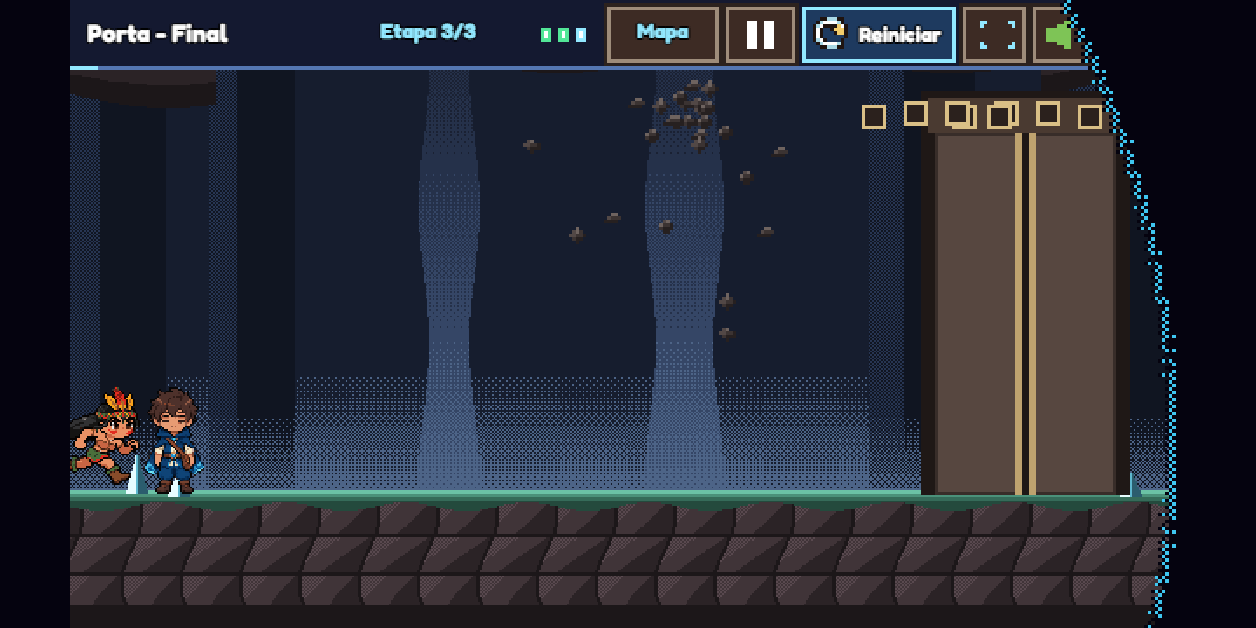
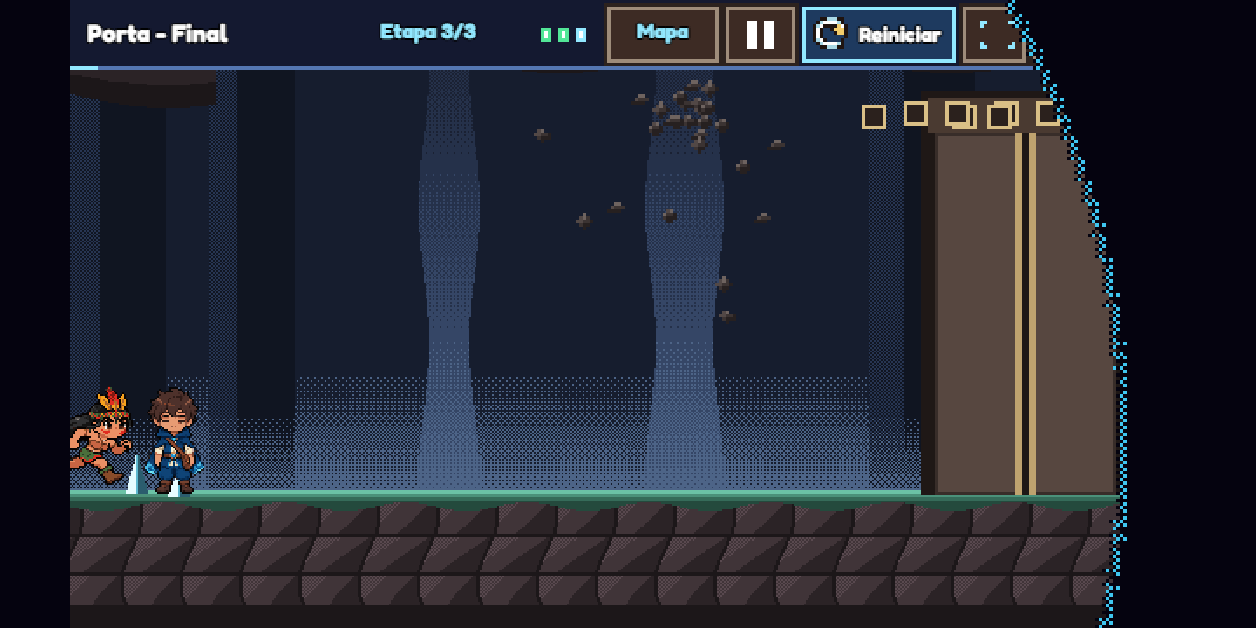
feat(ui,sprites): corrige modais de selecao de fase e redesenha bichinhos de pedra da Caverna
- Remove borda azul, fundo escuro opaco e frase de fase inedita nos modais de selecao de fase
- Limpa botoes ilustrados em paineis-mundos.png e estiliza Botoes Comecar/Voltar por mundo
- Restringe bichinhos de pedra musicais exclusivamente a Caverna e redesenha sprite caricato e expressivo
- Adiciona testes automatizados e atualiza artefatos de playtest E2E

diff --git a/js/true-pixel-engine.js b/js/true-pixel-engine.js
@@ -5612,11 +5612,13 @@
 
   // ============================================================================
   // ANIMAIS DE PEDRA COM MUSGO E CRISTAIS LUMINOSOS — HI-BIT 38x36 PIXELS (ESTILO OWLBOY)
-  // Criaturas rochosas esculpidas em tons terrosos (#262020, #3b3332, #524846, #6e635f)
-  // com musgo vivo (#367030, #539e43, #7ec456) e veios cristalinos suaves.
   // ============================================================================
-  function buildHiBitStoneAnimal(neonHi, neonMid, isSing = false) {
-    const W = 38, H = 36;
+  // BICHINHOS DE PEDRA MUSICAIS (EXCLUSIVOS DA CAVERNA)
+  // Criaturas de pedra arredondadas, expressivas e fofas/caricatas com coroinha
+  // de cristais cintilantes, bochechinhas coradas, olhões kawaii e boquinha em "O".
+  // ============================================================================
+  function buildHiBitStoneAnimal(neonHi, neonMid, isSing = false, frame = 0, cheekCol = '#ff9eb5') {
+    const W = 40, H = 38;
     const [c, x] = mk(W, H);
     c.hib = true;
     const put = (px, py, col) => {
@@ -5639,60 +5641,186 @@
       }
     };
 
-    const ROCK_0 = '#262020', ROCK_1 = '#3b3332', ROCK_2 = '#524846', ROCK_3 = '#6e635f';
-    const MOSS_0 = '#367030', MOSS_1 = '#539e43', MOSS_2 = '#7ec456';
+    const ROCK_0 = '#221c1c'; // contorno
+    const ROCK_1 = '#382e2c'; // sombra
+    const ROCK_2 = '#544745'; // tom médio
+    const ROCK_3 = '#726360'; // brilho
+    const ROCK_4 = '#8f807c'; // luz superior
+    const MOSS_0 = '#2f5e27';
+    const MOSS_1 = '#4e943c';
+    const MOSS_2 = '#79bd54';
 
-    // Cristais nas costas do guardião de pedra
-    for (const [cx, cy, h] of [[13, 9, 8], [19, 7, 10], [25, 10, 7]]) {
+    const squashY = (isSing && frame === 1) ? -1 : 0;
+    const centerY = 23 + squashY;
+
+    // 1. Cristais cintilantes no topo da cabeça
+    const crystals = [
+      [13, 10 + squashY, 7, -1],
+      [20, 7 + squashY, 9, 0],
+      [27, 10 + squashY, 7, 1]
+    ];
+    for (const [cx, cy, h, lean] of crystals) {
       for (let py = cy - h; py <= cy; py++) {
-        const w = Math.max(1, Math.round((1 - (cy - py) / h) * 3));
-        for (let px = cx - w; px <= cx + w; px++) {
-          put(px, py, px < cx ? '#ffffff' : (px === cx ? neonHi : neonMid));
+        const progress = (cy - py) / h;
+        const w = Math.max(1, Math.round((1 - progress) * 2.8));
+        const lx = Math.round(lean * (1 - progress));
+        for (let px = cx - w + lx; px <= cx + w + lx; px++) {
+          let col = neonMid;
+          if (px < cx) col = (py === cy - h) ? '#ffffff' : neonHi;
+          else if (px === cx) col = (py <= cy - h + 1 || (frame === 1 && ((px + py) & 1) === 0)) ? '#ffffff' : neonHi;
+          put(px, py, col);
         }
       }
     }
 
-    // Corpo rochoso esculpido (guardião coruja/golem de pedra estilo Owlboy)
-    fillEll(19, 22, 13, 10, (px, py, dx, dy, d) => {
-      if (d > 0.85) return ROCK_0;
-      if (dy < -0.55) {
-        return ((px + py) & 1) === 0 ? MOSS_2 : (dy < -0.7 ? MOSS_1 : MOSS_0);
-      }
-      if (dx + dy < -0.2) return ROCK_3;
+    // 2. Corpinho arredondado gordinho e fofo (batatinha de pedra alegre)
+    const bodyRx = 13.5;
+    const bodyRy = 10.5 + ((isSing && frame === 0) ? 0.5 : (isSing && frame === 1) ? -0.5 : 0);
+    fillEll(20, centerY, bodyRx, bodyRy, (px, py, dx, dy, d) => {
+      if (d > 0.82) return ROCK_0;
+      if (dy < -0.58 && dx < 0.2) return ((px + py) & 1) === 0 ? MOSS_2 : MOSS_1;
+      if (dy < -0.48 && dx < 0.25 && d > 0.6) return MOSS_0;
+      if (dy < -0.4 && dx > -0.3 && dx < 0.3) return ROCK_4;
+      if (dx + dy < -0.15) return ROCK_3;
       if (dx + dy > 0.35) return ROCK_1;
       return ROCK_2;
     });
 
-    // Patas de pedra na base
-    fillEll(13, 32, 4, 3, (px, py, dx, dy) => dy < 0 ? ROCK_2 : ROCK_0);
-    fillEll(25, 32, 4, 3, (px, py, dx, dy) => dy < 0 ? ROCK_2 : ROCK_0);
+    // 3. Patinhas curtas redondinhas de pedra na base
+    const footY = 33 + squashY;
+    fillEll(14, footY, 3.8, 2.8, (px, py, dx, dy, d) => d > 0.75 ? ROCK_0 : dy < -0.2 ? ROCK_3 : ROCK_1);
+    fillEll(26, footY, 3.8, 2.8, (px, py, dx, dy, d) => d > 0.75 ? ROCK_0 : dy < -0.2 ? ROCK_3 : ROCK_1);
 
-    // Olhos minerais luminosos e boca cantando
-    for (const ox of [15, 23]) {
-      put(ox, 19, neonHi);
-      put(ox + 1, 19, '#ffffff');
-      put(ox, 20, neonMid);
-      put(ox + 1, 20, neonHi);
+    // 4. Bochechinhas coradas fofas (rosadas/iluminadas)
+    const cheekY = centerY + 1;
+    put(13, cheekY, cheekCol);
+    put(14, cheekY, cheekCol);
+    put(13, cheekY + 1, cheekCol);
+    put(14, cheekY + 1, cheekCol);
+    put(25, cheekY, cheekCol);
+    put(26, cheekY, cheekCol);
+    put(25, cheekY + 1, cheekCol);
+    put(26, cheekY + 1, cheekCol);
+
+    // 5. Olhos grandes expressivos e caricatos
+    const eyeY = centerY - 2;
+    if (isSing && frame === 1) {
+      // Olhos fechados em arco de felicidade ao cantar nota aguda (^ ^)
+      put(14, eyeY, ROCK_0);
+      put(15, eyeY - 1, ROCK_0);
+      put(16, eyeY - 1, ROCK_0);
+      put(17, eyeY, ROCK_0);
+      put(22, eyeY, ROCK_0);
+      put(23, eyeY - 1, ROCK_0);
+      put(24, eyeY - 1, ROCK_0);
+      put(25, eyeY, ROCK_0);
+    } else {
+      // Olhões grandes brilhantes "kawaii" com brilho duplo
+      for (const ox of [15, 23]) {
+        put(ox - 1, eyeY - 2, ROCK_0);
+        put(ox, eyeY - 2, ROCK_0);
+        put(ox + 1, eyeY - 2, ROCK_0);
+        put(ox + 2, eyeY - 2, ROCK_0);
+
+        put(ox - 1, eyeY - 1, ROCK_0);
+        put(ox, eyeY - 1, '#ffffff'); // Brilho principal
+        put(ox + 1, eyeY - 1, '#ffffff');
+        put(ox + 2, eyeY - 1, ROCK_0);
+
+        put(ox - 1, eyeY, ROCK_0);
+        put(ox, eyeY, neonMid);      // Íris
+        put(ox + 1, eyeY, neonHi);   // Brilho da íris
+        put(ox + 2, eyeY, ROCK_0);
+
+        put(ox - 1, eyeY + 1, ROCK_0);
+        put(ox, eyeY + 1, ROCK_0);
+        put(ox + 1, eyeY + 1, '#ffffff'); // Brilho secundário
+        put(ox + 2, eyeY + 1, ROCK_0);
+
+        put(ox, eyeY + 2, ROCK_0);
+        put(ox + 1, eyeY + 2, ROCK_0);
+      }
     }
+
+    // 6. Boquinha expressiva e cômica
+    const mouthY = centerY + 2;
     if (isSing) {
-      for (let py = 23; py <= 26; py++) {
-        for (let px = 17; px <= 21; px++) {
-          put(px, py, py === 23 ? '#ffffff' : neonHi);
-        }
+      if (frame === 0) {
+        // Boquinha em 'O' redondinha clássica
+        put(18, mouthY - 1, ROCK_0);
+        put(19, mouthY - 1, ROCK_0);
+        put(20, mouthY - 1, ROCK_0);
+        put(21, mouthY - 1, ROCK_0);
+
+        put(17, mouthY, ROCK_0);
+        put(18, mouthY, '#831843');
+        put(19, mouthY, '#ec4899'); // linguinha fofa
+        put(20, mouthY, '#831843');
+        put(21, mouthY, ROCK_0);
+
+        put(17, mouthY + 1, ROCK_0);
+        put(18, mouthY + 1, '#831843');
+        put(19, mouthY + 1, '#831843');
+        put(20, mouthY + 1, '#831843');
+        put(21, mouthY + 1, ROCK_0);
+
+        put(18, mouthY + 2, ROCK_0);
+        put(19, mouthY + 2, ROCK_0);
+        put(20, mouthY + 2, ROCK_0);
+        put(21, mouthY + 2, ROCK_0);
+      } else {
+        // Boquinha em 'O' mais aberta, vibrando
+        put(18, mouthY - 1, ROCK_0);
+        put(19, mouthY - 1, ROCK_0);
+        put(20, mouthY - 1, ROCK_0);
+        put(21, mouthY - 1, ROCK_0);
+
+        put(17, mouthY, ROCK_0);
+        put(18, mouthY, '#9d174d');
+        put(19, mouthY, '#f472b6');
+        put(20, mouthY, '#f472b6');
+        put(21, mouthY, '#9d174d');
+        put(22, mouthY, ROCK_0);
+
+        put(17, mouthY + 1, ROCK_0);
+        put(18, mouthY + 1, '#500724');
+        put(19, mouthY + 1, '#f472b6');
+        put(20, mouthY + 1, '#f472b6');
+        put(21, mouthY + 1, '#500724');
+        put(22, mouthY + 1, ROCK_0);
+
+        put(17, mouthY + 2, ROCK_0);
+        put(18, mouthY + 2, '#500724');
+        put(19, mouthY + 2, '#500724');
+        put(20, mouthY + 2, '#500724');
+        put(21, mouthY + 2, '#500724');
+        put(22, mouthY + 2, ROCK_0);
+
+        put(18, mouthY + 3, ROCK_0);
+        put(19, mouthY + 3, ROCK_0);
+        put(20, mouthY + 3, ROCK_0);
+        put(21, mouthY + 3, ROCK_0);
       }
     } else {
-      for (let px = 17; px <= 21; px++) put(px, 24, ROCK_0);
+      // Boquinha sorridente fofa no estado idle (sorrisinho :3)
+      put(17, mouthY, ROCK_0);
+      put(18, mouthY + 1, ROCK_0);
+      put(19, mouthY, ROCK_0);
+      put(20, mouthY + 1, ROCK_0);
+      put(21, mouthY, ROCK_0);
     }
 
     return c;
   }
 
-  function makeStoneNeonAnimal(neonHi, neonMid) {
-    const idle0 = buildHiBitStoneAnimal(neonHi, neonMid, false);
-    const sing0 = buildHiBitStoneAnimal(neonHi, neonMid, true);
+  function makeStoneNeonAnimal(neonHi, neonMid, cheekCol = '#ff9eb5') {
+    const idle0 = buildHiBitStoneAnimal(neonHi, neonMid, false, 0, cheekCol);
+    const idle1 = buildHiBitStoneAnimal(neonHi, neonMid, false, 1, cheekCol);
+    const sing0 = buildHiBitStoneAnimal(neonHi, neonMid, true, 0, cheekCol);
+    const sing1 = buildHiBitStoneAnimal(neonHi, neonMid, true, 1, cheekCol);
     return {
-      idle: [idle0],
-      sing: [sing0, idle0]
+      idle: [idle0, idle0, idle1, idle0],
+      sing: [sing0, sing1, sing0, sing1]
     };
   }
 
@@ -5829,9 +5957,9 @@
     irece: makeGuardianActor(GUARDIAN_SPRITE_SPECS.irece),
     jurema: makeGuardianActor(GUARDIAN_SPRITE_SPECS.jurema),
     stoneNeonAnimals: {
-      cyan: makeStoneNeonAnimal('#a8e6cf', '#56ab91'),
-      magenta: makeStoneNeonAnimal('#f2b8c6', '#bd6b82'),
-      gold: makeStoneNeonAnimal('#f5df98', '#c49b45')
+      cyan: makeStoneNeonAnimal('#67e8f9', '#0891b2', '#f472b6'),
+      magenta: makeStoneNeonAnimal('#f472b6', '#be185d', '#fda4af'),
+      gold: makeStoneNeonAnimal('#fde047', '#ca8a04', '#f87171')
     },
     portraits: {
       portrait_protagonist_male: PORTRAIT_PROTAG_MALE_SET,

diff --git a/css/journey.css b/css/journey.css
@@ -20,14 +20,41 @@
 .map-screen .screen-bar{position:absolute;top:0;left:0;right:0;z-index:10;pointer-events:none;padding:12px 24px;background:linear-gradient(180deg,rgba(8,15,37,0.78) 0%,rgba(8,15,37,0.3) 70%,transparent 100%)}.map-screen .screen-bar .square-button{pointer-events:auto}
 .map-screen.iris-entering .screen-bar .square-button{pointer-events:none}
 .map-caption{display:none!important}
-.journey-dialog{width:min(580px,94vw);aspect-ratio:1.5;border:0;background:transparent url('../assets/story/interface-extra/paineis-mundos.png') var(--panel-x) var(--panel-y)/200% 200%;padding:0;overflow:hidden;color:#ffffff;font-family:var(--game-font,'Fredoka',sans-serif);filter:drop-shadow(0 0 9px #a278bc);animation:panel-idle 3s ease-in-out infinite alternate}
+.journey-dialog, .journey-dialog:focus, .journey-dialog:focus-visible{width:min(580px,94vw);aspect-ratio:1.5;border:0!important;outline:none!important;box-shadow:none!important;background:transparent url('../assets/story/interface-extra/paineis-mundos.png') var(--panel-x) var(--panel-y)/200% 200%;padding:0;overflow:hidden;color:#ffffff;font-family:var(--game-font,'Fredoka',sans-serif);filter:drop-shadow(0 0 9px #a278bc);animation:panel-idle 3s ease-in-out infinite alternate}
 .journey-dialog::backdrop{background:#071023c9}
 .journey-dialog h2{position:absolute;top:16%;left:15%;width:70%;font-size:clamp(16px,2.5vw,23px);text-align:center;font-family:var(--game-font,'Fredoka',sans-serif);color:#ffffff;-webkit-text-stroke:0.5px #000;text-shadow:-1px -1px 0 #000,1px -1px 0 #000,-1px 1px 0 #000,1px 1px 0 #000,0 2px 0 #000;paint-order:stroke fill;font-weight:700}
-.journey-stars{position:absolute;top:35%;left:15%;width:70%;height:23%;display:flex;align-items:center;justify-content:center;text-align:center;font-size:clamp(29px,6vw,48px);color:#ffe887;-webkit-text-stroke:0.5px #000;text-shadow:-2px -2px 0 #000,2px -2px 0 #000,-2px 2px 0 #000,2px 2px 0 #000,0 2px 0 #000;background:#25183c;letter-spacing:8px}
-.journey-dialog p{position:absolute;top:57%;left:15%;width:70%;text-align:center;font-size:14px;background:#25183ce6;font-family:var(--game-font,'Fredoka',sans-serif);color:#92e8ff;-webkit-text-stroke:0;text-shadow:-1px -1px 0 #000,1px -1px 0 #000,-1px 1px 0 #000,1px 1px 0 #000,0 1px 0 #000;paint-order:stroke fill;font-weight:600;padding:2px 6px;border-radius:4px}
-.journey-dialog button{position:absolute;top:70%;width:30%;height:12%;display:flex;align-items:center;justify-content:center;text-align:center;border:2px solid #92e8ff;border-radius:6px;background:#2b184ae6;font-weight:700;font-size:17px;font-family:var(--game-font,'Fredoka',sans-serif);color:#ffffff;-webkit-text-stroke:0;text-shadow:-1px -1px 0 #000,1px -1px 0 #000,-1px 1px 0 #000,1px 1px 0 #000,0 2px 0 #000;paint-order:stroke fill;cursor:pointer;transition:transform .12s,background .12s}
-.journey-dialog button:hover{background:#41246ee6;color:#92e8ff;transform:scale(1.04)}
-.journey-begin{left:18%}.journey-back{right:17%}
+.journey-stars{position:absolute;top:35%;left:15%;width:70%;height:23%;display:flex;align-items:center;justify-content:center;text-align:center;font-size:clamp(29px,6vw,48px);color:#ffe887;-webkit-text-stroke:0.5px #000;text-shadow:-2px -2px 0 #000,2px -2px 0 #000,-2px 2px 0 #000,2px 2px 0 #000,0 2px 0 #000;background:transparent!important;box-shadow:none!important;letter-spacing:8px}
+.journey-dialog p{position:absolute;top:57%;left:15%;width:70%;text-align:center;font-size:14px;background:transparent!important;border:none!important;box-shadow:none!important;font-family:var(--game-font,'Fredoka',sans-serif);color:#92e8ff;-webkit-text-stroke:0;text-shadow:-1px -1px 0 #000,1px -1px 0 #000,-1px 1px 0 #000,1px 1px 0 #000,0 1px 0 #000;paint-order:stroke fill;font-weight:600;padding:2px 6px;border-radius:4px}
+.journey-dialog button{position:absolute;width:28%;height:13.5%;display:flex;align-items:center;justify-content:center;text-align:center;border-radius:6px;font-weight:700;font-size:17px;font-family:var(--game-font,'Fredoka',sans-serif);color:#ffffff;-webkit-text-stroke:0;text-shadow:-1px -1px 0 #000,1px -1px 0 #000,-1px 1px 0 #000,1px 1px 0 #000,0 2px 0 #000;paint-order:stroke fill;cursor:pointer;transition:transform .12s,box-shadow .12s,filter .12s}
+.journey-begin{left:19%}
+.journey-back{left:53%}
+.journey-dialog[data-world="0"] button,.journey-dialog[data-world="1"] button{top:68%}
+.journey-dialog[data-world="2"] button,.journey-dialog[data-world="3"] button{top:64%}
+
+/* Tematização Mundo 0: Caverna (Ametista) */
+.journey-dialog[data-world="0"] .journey-begin{background:linear-gradient(180deg,#9333ea 0%,#6b21a8 50%,#4c1d95 100%);border:2px solid #c084fc;box-shadow:inset 0 1px 0 #e9d5ff,0 3px 0 #2e1065,0 4px 8px rgba(0,0,0,0.5)}
+.journey-dialog[data-world="0"] .journey-begin:hover{background:linear-gradient(180deg,#a855f7 0%,#7e22ce 50%,#581c87 100%);box-shadow:inset 0 1px 0 #fff,0 0 12px #c084fc,0 3px 0 #2e1065;transform:scale(1.04)}
+.journey-dialog[data-world="0"] .journey-back{background:linear-gradient(180deg,#4c1d95 0%,#2e1065 100%);border:2px solid #7c3aed;box-shadow:inset 0 1px 0 #a855f7,0 3px 0 #1e0845,0 4px 8px rgba(0,0,0,0.5)}
+.journey-dialog[data-world="0"] .journey-back:hover{background:linear-gradient(180deg,#581c87 0%,#3b0764 100%);box-shadow:inset 0 1px 0 #fff,0 0 10px #a855f7,0 3px 0 #1e0845;transform:scale(1.04)}
+
+/* Tematização Mundo 1: Floresta (Esmeralda / Madeira) */
+.journey-dialog[data-world="1"] .journey-begin{background:linear-gradient(180deg,#22c55e 0%,#15803d 50%,#14532d 100%);border:2px solid #86efac;box-shadow:inset 0 1px 0 #dcfce7,0 3px 0 #052e16,0 4px 8px rgba(0,0,0,0.5)}
+.journey-dialog[data-world="1"] .journey-begin:hover{background:linear-gradient(180deg,#4ade80 0%,#16a34a 50%,#166534 100%);box-shadow:inset 0 1px 0 #fff,0 0 12px #4ade80,0 3px 0 #052e16;transform:scale(1.04)}
+.journey-dialog[data-world="1"] .journey-back{background:linear-gradient(180deg,#78350f 0%,#451a03 100%);border:2px solid #b45309;box-shadow:inset 0 1px 0 #d97706,0 3px 0 #1e0900,0 4px 8px rgba(0,0,0,0.5)}
+.journey-dialog[data-world="1"] .journey-back:hover{background:linear-gradient(180deg,#92400e 0%,#542006 100%);box-shadow:inset 0 1px 0 #fff,0 0 10px #f59e0b,0 3px 0 #1e0900;transform:scale(1.04)}
+
+/* Tematização Mundo 2: Rio (Ciano / Água) */
+.journey-dialog[data-world="2"] .journey-begin{background:linear-gradient(180deg,#0ea5e9 0%,#0284c7 50%,#0369a1 100%);border:2px solid #7dd3fc;box-shadow:inset 0 1px 0 #e0f2fe,0 3px 0 #082f49,0 4px 8px rgba(0,0,0,0.5)}
+.journey-dialog[data-world="2"] .journey-begin:hover{background:linear-gradient(180deg,#38bdf8 0%,#0284c7 50%,#075985 100%);box-shadow:inset 0 1px 0 #fff,0 0 12px #38bdf8,0 3px 0 #082f49;transform:scale(1.04)}
+.journey-dialog[data-world="2"] .journey-back{background:linear-gradient(180deg,#0369a1 0%,#082f49 100%);border:2px solid #38bdf8;box-shadow:inset 0 1px 0 #7dd3fc,0 3px 0 #021e30,0 4px 8px rgba(0,0,0,0.5)}
+.journey-dialog[data-world="2"] .journey-back:hover{background:linear-gradient(180deg,#0284c7 0%,#0c4a6e 100%);box-shadow:inset 0 1px 0 #fff,0 0 10px #7dd3fc,0 3px 0 #021e30;transform:scale(1.04)}
+
+/* Tematização Mundo 3: Caatinga (Âmbar Solar / Terracota) */
+.journey-dialog[data-world="3"] .journey-begin{background:linear-gradient(180deg,#f59e0b 0%,#d97706 50%,#b45309 100%);border:2px solid #fde047;box-shadow:inset 0 1px 0 #fef08a,0 3px 0 #451a03,0 4px 8px rgba(0,0,0,0.5)}
+.journey-dialog[data-world="3"] .journey-begin:hover{background:linear-gradient(180deg,#fbbf24 0%,#d97706 50%,#92400e 100%);box-shadow:inset 0 1px 0 #fff,0 0 12px #facc15,0 3px 0 #451a03;transform:scale(1.04)}
+.journey-dialog[data-world="3"] .journey-back{background:linear-gradient(180deg,#9a3412 0%,#431407 100%);border:2px solid #ea580c;box-shadow:inset 0 1px 0 #fb923c,0 3px 0 #270b04,0 4px 8px rgba(0,0,0,0.5)}
+.journey-dialog[data-world="3"] .journey-back:hover{background:linear-gradient(180deg,#c2410c 0%,#591907 100%);box-shadow:inset 0 1px 0 #fff,0 0 10px #fb923c,0 3px 0 #270b04;transform:scale(1.04)}
+
 @keyframes panel-idle{to{filter:drop-shadow(0 0 15px #a278bc)}}
 .reduce-motion .journey-dialog{animation:none}
 @media(max-width:600px){.journey-dialog p{font-size:10px}.journey-node{min-width:20px}.map-caption{font-size:12px}}

diff --git a/js/true-pixel-worlds.js b/js/true-pixel-worlds.js
@@ -7681,8 +7681,6 @@
           ActorAnimator.drawActor(ctx, 'araci', 'sing', 94, 142, tq, { flipX: false });
           ActorAnimator.drawActor(ctx, 'irece', 'sing', 168, 142, tq, { flipX: true });
           ActorAnimator.drawActor(ctx, 'jurema', 'sing', 196, 142, tq, { flipX: true });
-          ActorAnimator.drawStoneNeonAnimal(ctx, 'cyan', extraVoice, 18, 142, tq, false);
-          ActorAnimator.drawStoneNeonAnimal(ctx, 'magenta', extraVoice, 302, 142, tq, true);
         } else {
           if (mt >= 47.0) {
             drawNextBiomePanorama(ctx, spec.nextBiome, (mt - 47.0) / 5.5, tq);
@@ -7694,11 +7692,6 @@
           }
           if (mt >= 42.0 && mt < 47.0) {
             drawMagicCrystalDrum(ctx, 118, 118, tq);
-          }
-          ActorAnimator.drawStoneNeonAnimal(ctx, 'cyan', extraVoice, 18, 142, tq, false);
-          ActorAnimator.drawStoneNeonAnimal(ctx, 'magenta', extraVoice, 206, 142, tq, true);
-          if (mt < 47.0) {
-            ActorAnimator.drawStoneNeonAnimal(ctx, 'gold', extraVoice, 298, 142, tq, true);
           }
           ActorAnimator.drawMusicNotesLoop(ctx, this.guardianActor.x, this.guardianActor.y - 24, tq, {
             count: 4,
@@ -7751,8 +7744,6 @@
         drawAncientSanctuaryGate(ctx, this.obstacleDecay, this.gateOpenRatio, tq);
       } else if (this.phase === 'post_musical_dlg' || this.phase === 'world_celebrate_complete' || this.phase === 'walk_to_world_exit') {
         drawNextBiomePanorama(ctx, spec.nextBiome, 1.0, tq);
-        ActorAnimator.drawStoneNeonAnimal(ctx, 'cyan', this.phase === 'world_celebrate_complete', 20, 142, tq, false);
-        ActorAnimator.drawStoneNeonAnimal(ctx, 'magenta', this.phase === 'world_celebrate_complete', 298, 142, tq, true);
       } else if (this.isWorldFinale()) {
         drawGiantBiomeCrystal(ctx, this.worldKey, this.obstacleDecay, this.giantCrystalFlash, this.giantCrystalBroken, tq);
         if (!this.giantCrystalBroken) {

diff --git a/js/journey-map.js b/js/journey-map.js
@@ -63,7 +63,7 @@
  const setPosition=(p)=>{position=p;fairy.style.left=p[0]+'%';fairy.style.top=p[1]+'%';};setPosition(position);
  function panel(level){const w=level.world,record=state.records?.[level.id];dialog.dataset.world=w;dialog.style.setProperty('--panel-x',(w%2)*100+'%');dialog.style.setProperty('--panel-y',Math.floor(w/2)*100+'%');dialog.replaceChildren();
   const title=document.createElement('h2');title.id='journey-title';title.textContent=level.name;const stars=document.createElement('div');stars.className='journey-stars';stars.setAttribute('aria-label',`${record?.stars||0} de 3 estrelas`);stars.textContent=Array.from({length:3},(_,i)=>i<(record?.stars||0)?'★':'☆').join(' ');
-  const info=document.createElement('p');info.textContent=record?`Melhor desempenho: ${record.points} pontos`:'Fase inédita · conquiste suas estrelas';
+  const info=document.createElement('p');info.textContent=record?`Melhor desempenho: ${record.points} pontos`:'';if(!record)info.style.display='none';
   const start=document.createElement('button');start.className='journey-begin';start.textContent='Começar';start.onclick=()=>{dialog.close();state.start(level.id);};const back=document.createElement('button');back.className='journey-back';back.textContent='Voltar';back.onclick=()=>dialog.close();dialog.append(title,stars,info,start,back);dialog.showModal();start.focus();
  }
  function isLevelLocked(level,opts){
